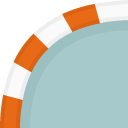
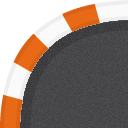
Textures Kenney pour la route, l'herbe et la terre

diff --git a/model/tile.py b/model/tile.py
@@ -1,5 +1,16 @@
 import pygame
 from constants import TILE_SIZE
+from model.terrain_tempo import ROAD, GRASS, DIRT
+
+IMAGES = {}
+
+def load_image(name):
+    if name not in IMAGES:
+        img = pygame.image.load("assets/tiles/" + name)
+        IMAGES[name] = pygame.transform.scale(img, (TILE_SIZE, TILE_SIZE))
+    return IMAGES[name]
+
+TERRAIN_IMAGES = {ROAD: "road.png", GRASS: "grass.png", DIRT: "dirt.png"}
 
 
 class Tile:
@@ -11,6 +22,8 @@ class Tile:
         self.color = color
 
     def get_sprite(self, tile_size=TILE_SIZE):
+        if self.color == (80, 80, 90) or self.color == (50, 140, 60) or self.color == (155, 118, 83):
+            return load_image(TERRAIN_IMAGES[self.terrain])
         sprite = pygame.Surface((tile_size, tile_size))
         sprite.fill(self.color)
         return sprite
